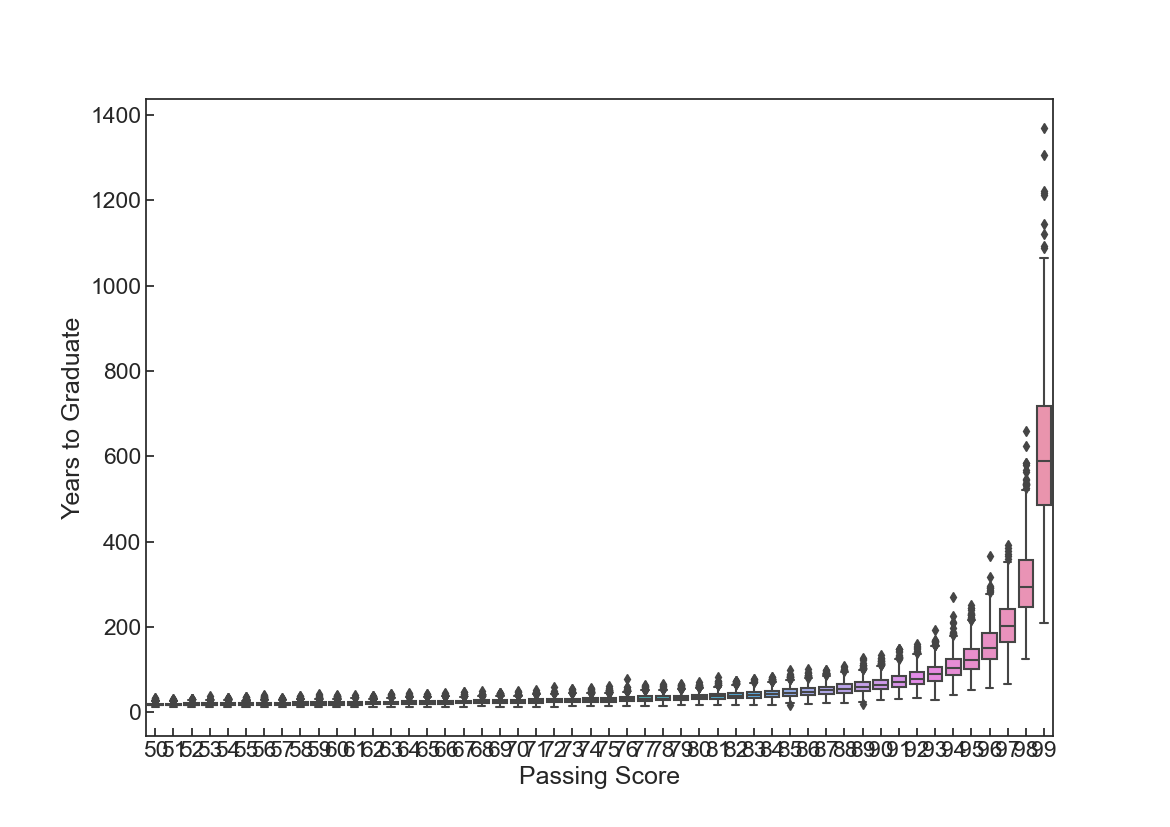
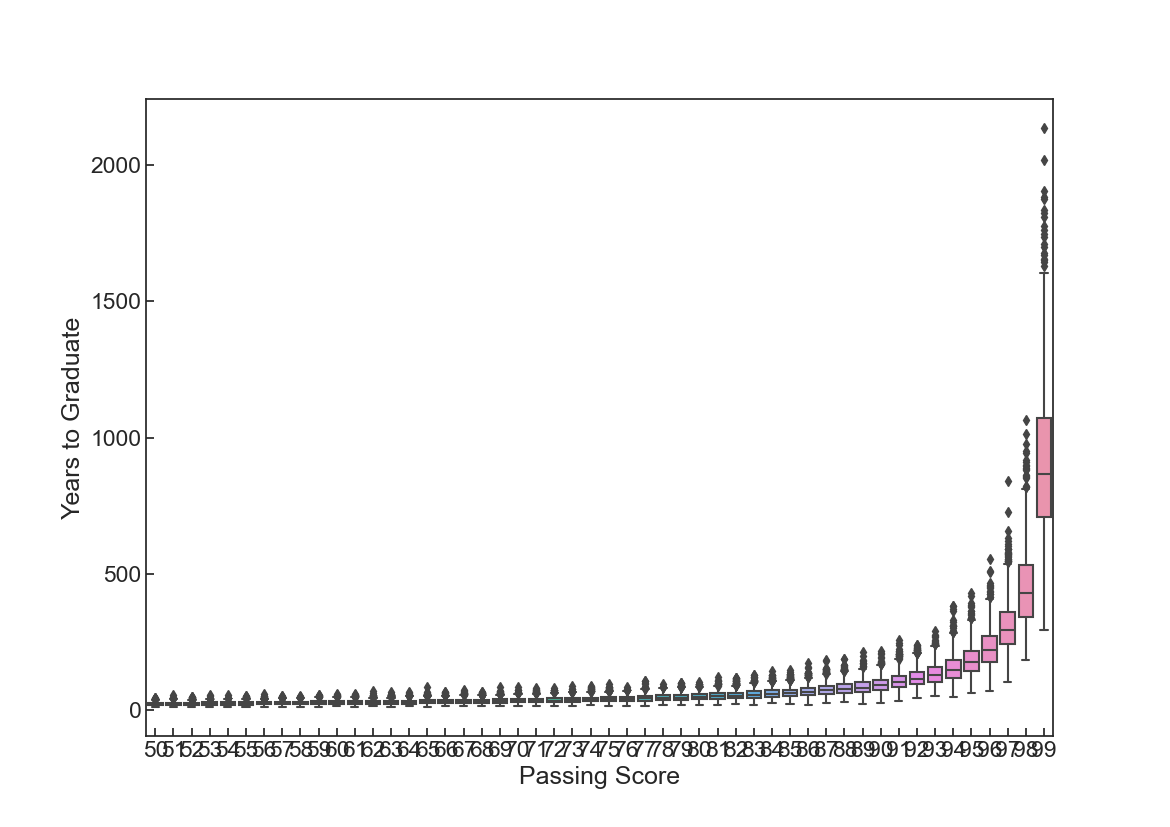
adjusting the failure penalty

diff --git a/graduation.py b/graduation.py
@@ -19,7 +19,7 @@ while passing_score < 100:
             score = uniform(curve, 100)
             if score > passing_score:
                 grade += 1
-                curve = score - 50
+                curve = score - 10 * grade
                 year += 1
             elif score <= passing_score:
                 year += 1
